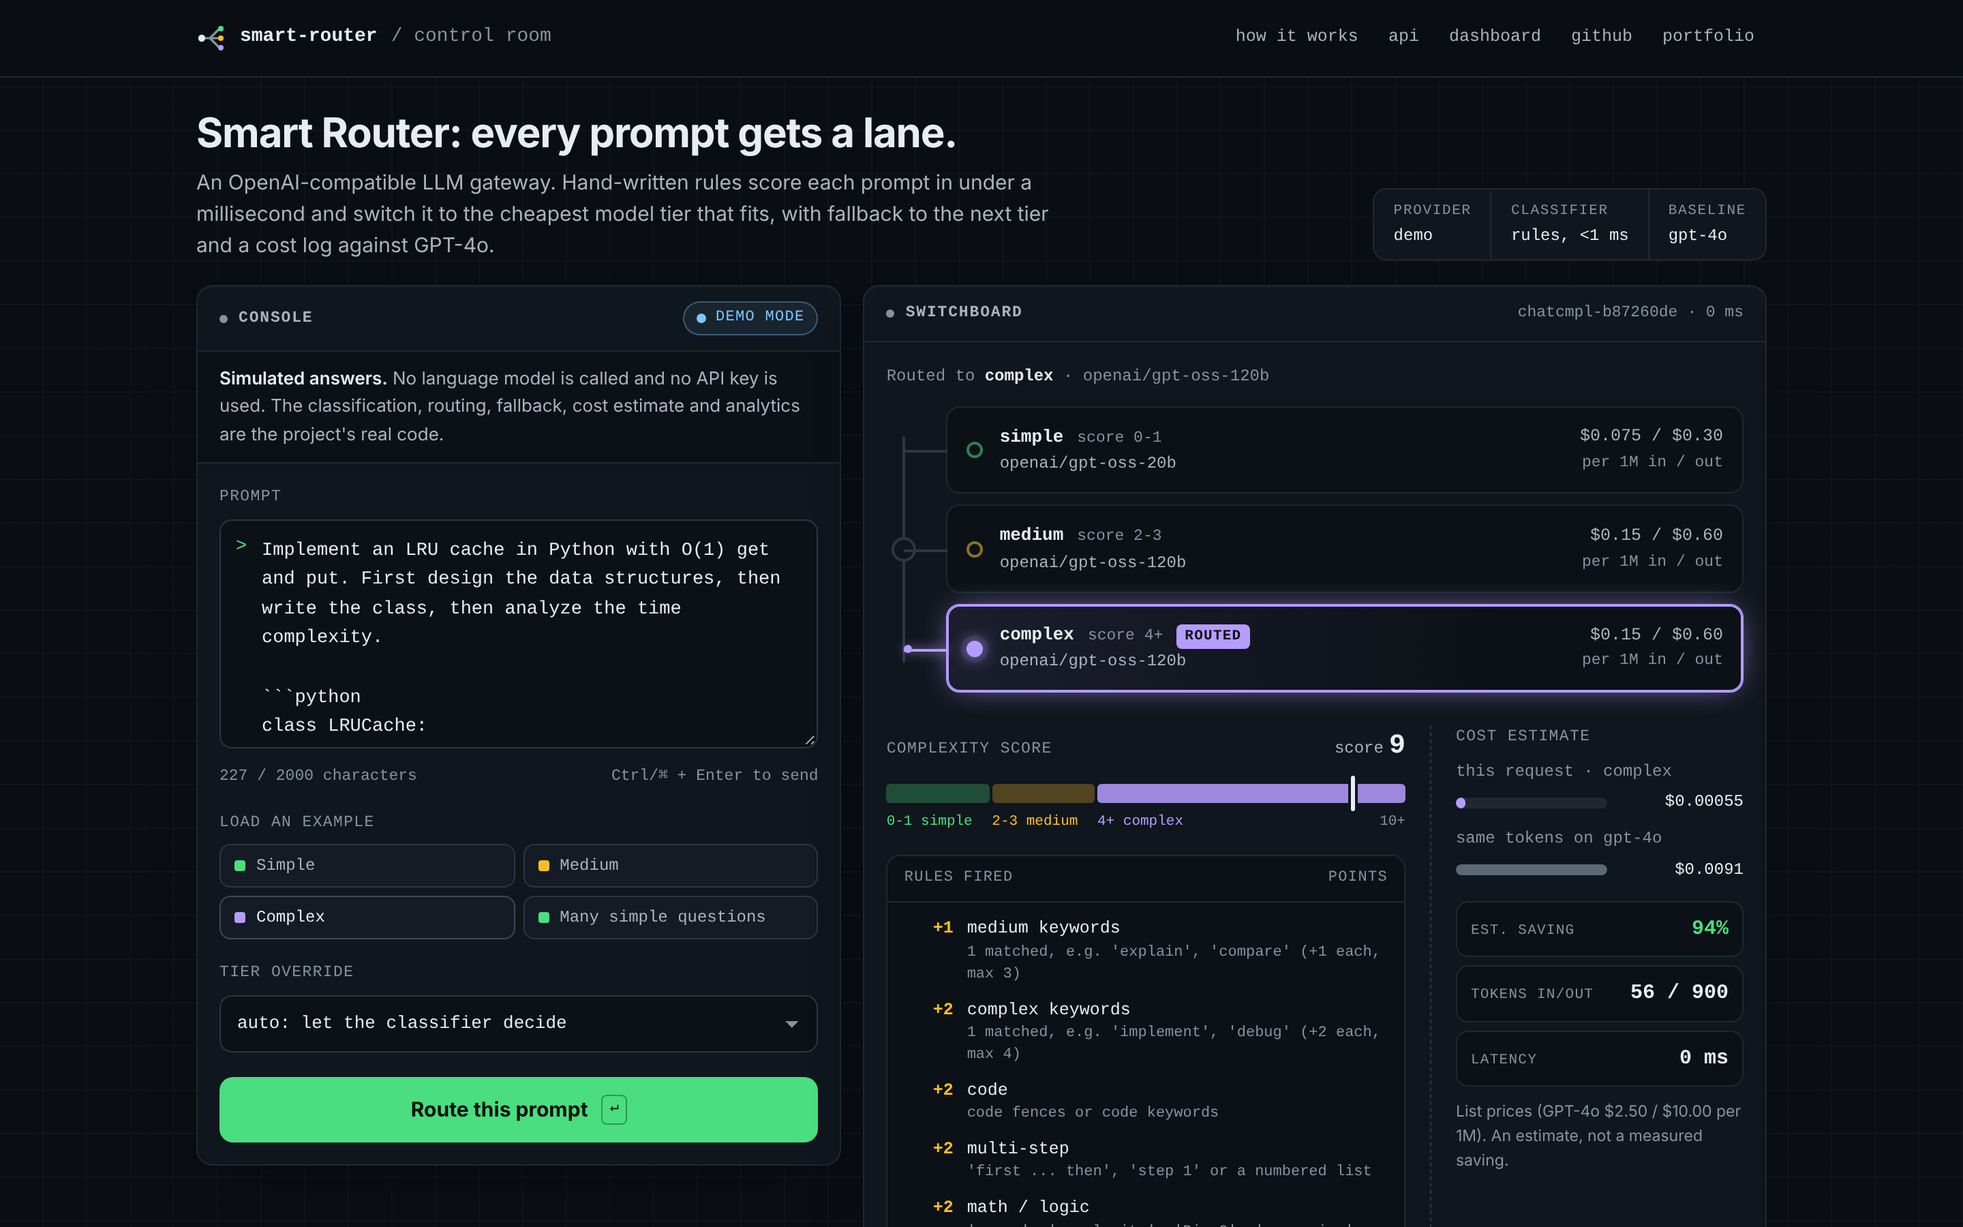
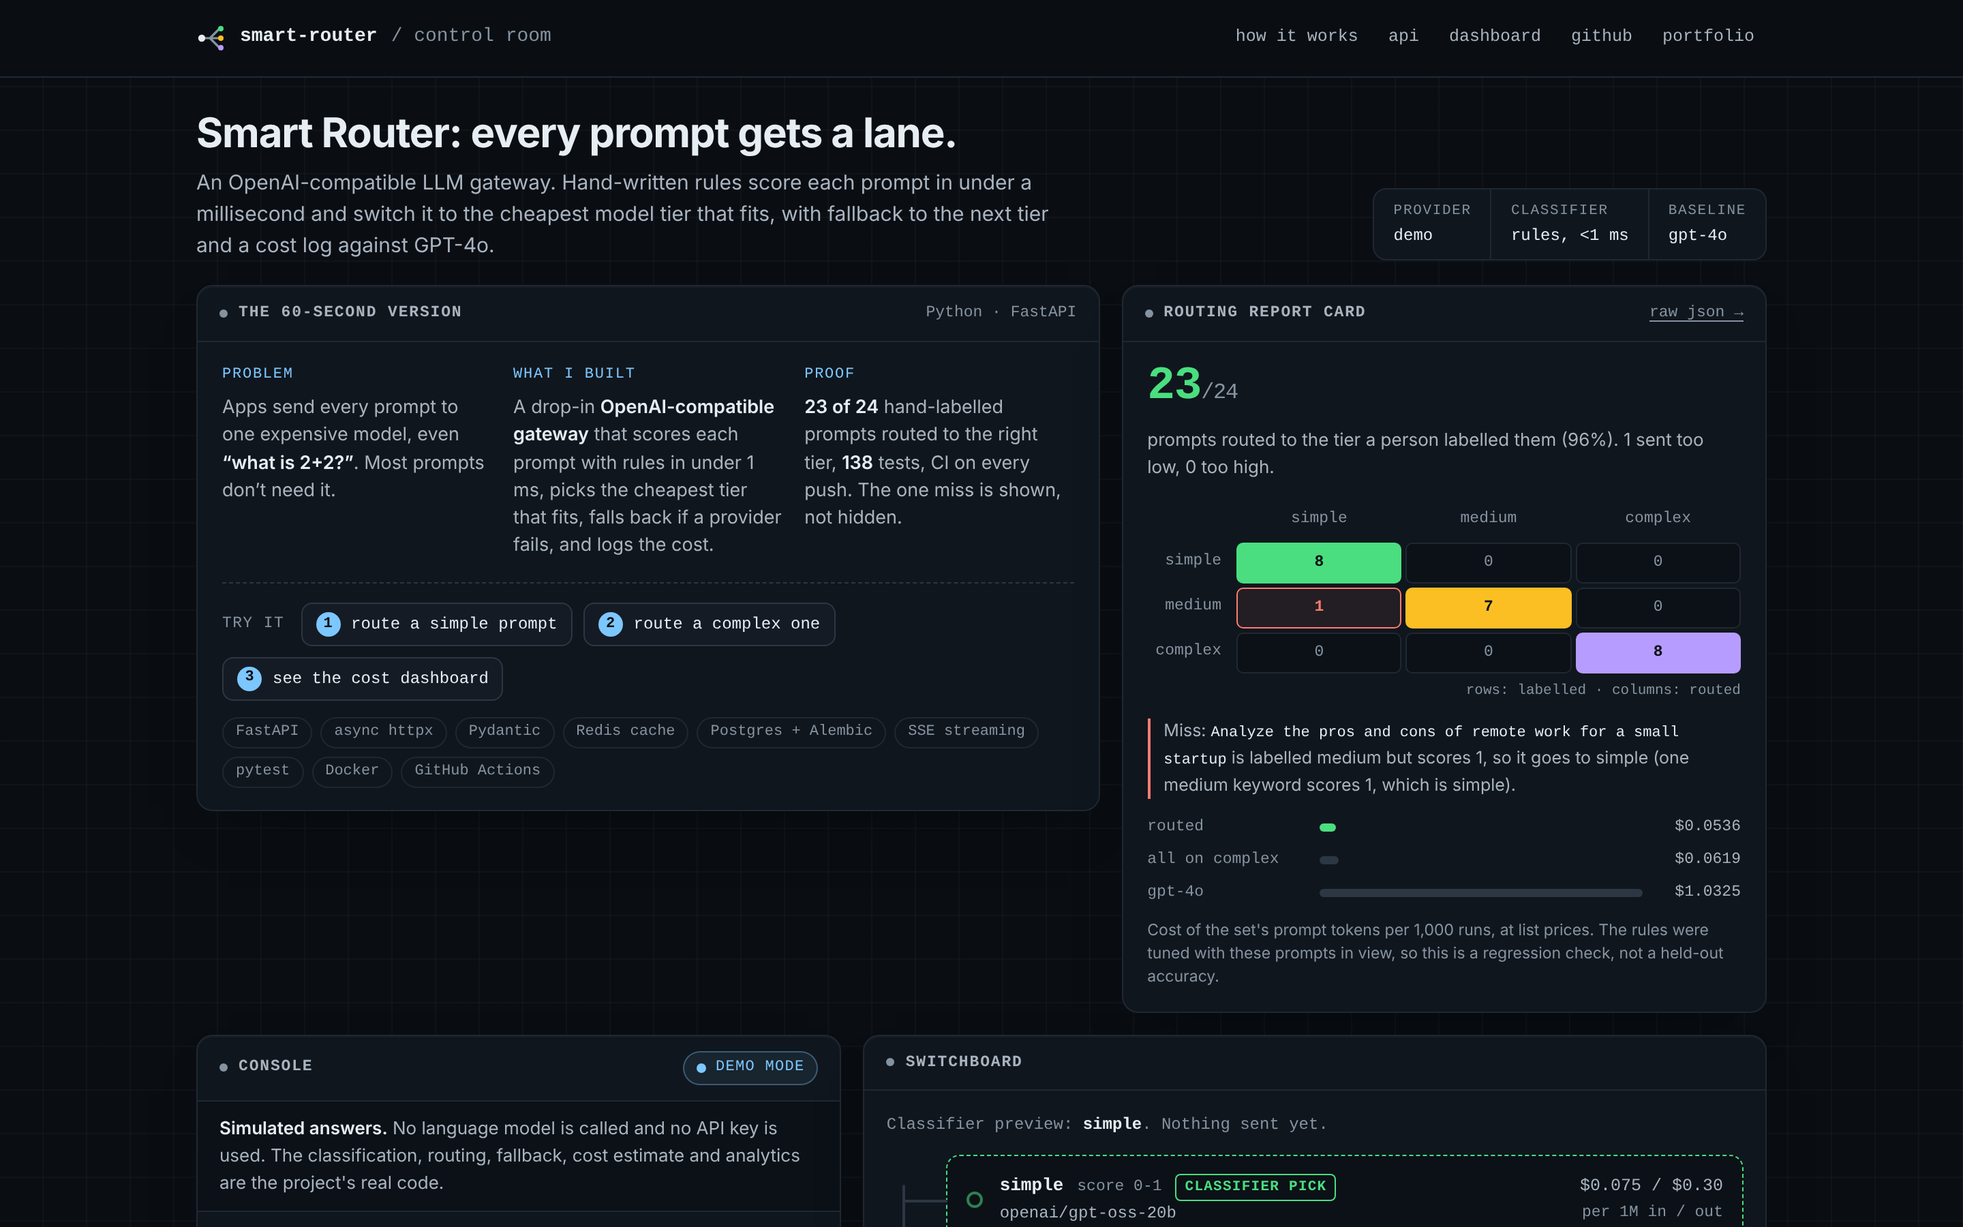
Open the demo page with a 60-second summary and a routing report card
Someone landing on the page saw a prompt box and had to guess what the
project is for and whether it works. The page now starts with the
problem, what was built and the proof, three try-it buttons (route a
simple prompt, route a complex one, open the cost dashboard), and a
report card drawn from GET /v1/route/eval: 23 of 24, the confusion
matrix, the one miss with its reason, and the cost bars.

README: an 'In 60 seconds' table, a Routing eval section, make eval in
the quick start, and 139 tests (was 132).

diff --git a/backend/app/static/demo.html b/backend/app/static/demo.html
@@ -240,6 +240,42 @@ footer .mono{font-size:12px}
   .count .hint{display:none}
   .zones b{display:none}
 }
+
+/* ── 60-second brief + routing report card ── */
+.brief{display:grid;grid-template-columns:minmax(0,7fr) minmax(0,5fr);gap:16px;margin-bottom:16px;align-items:start}
+.brief .pb{padding:16px 18px}
+.facts{display:grid;grid-template-columns:repeat(3,minmax(0,1fr));gap:16px}
+.facts dt{font-family:var(--mono);font-size:11px;letter-spacing:.08em;text-transform:uppercase;color:var(--info);margin-bottom:5px}
+.facts dd{font-size:13.5px;color:var(--ink-2);line-height:1.5}
+.facts dd b{color:var(--ink);font-weight:600}
+.tour{display:flex;flex-wrap:wrap;align-items:center;gap:8px;margin-top:16px;padding-top:14px;border-top:1px dashed var(--line-2)}
+.tour .lbl{margin:0 4px 0 0}
+.tour button,.tour a{display:inline-flex;align-items:center;gap:8px;font-family:var(--mono);font-size:12px;color:var(--ink);background:var(--panel-2);border:1px solid var(--line-2);padding:6px 10px;border-radius:8px;cursor:pointer;text-decoration:none}
+.tour button:hover,.tour a:hover{border-color:var(--info)}
+.tour b{display:inline-grid;place-items:center;width:18px;height:18px;border-radius:50%;background:var(--info);color:#0a0e13;font-size:11px}
+.stack{display:flex;flex-wrap:wrap;gap:6px;margin-top:12px}
+.stack span{font-family:var(--mono);font-size:11px;color:var(--ink-3);border:1px solid var(--line);border-radius:999px;padding:2px 9px}
+.card-top{display:flex;align-items:baseline;gap:12px;flex-wrap:wrap}
+.big{font-family:var(--mono);font-size:34px;font-weight:650;letter-spacing:-.02em;line-height:1;color:var(--simple)}
+.big small{font-size:16px;color:var(--ink-3);font-weight:500}
+.card-top p{font-size:13px;color:var(--ink-2)}
+.cm{display:grid;grid-template-columns:auto repeat(3,minmax(0,1fr));gap:3px;margin-top:14px;font-family:var(--mono);font-size:11.5px;font-variant-numeric:tabular-nums}
+.cm > span{padding:5px 6px;text-align:center;color:var(--ink-3)}
+.cm .rh{text-align:right;padding-right:8px}
+.cm .c{background:var(--well);border:1px solid var(--line);border-radius:5px;color:var(--ink-3)}
+.cm .c.hit{color:#0a0e13;font-weight:650}
+.cm .c.miss{color:var(--bad);border-color:var(--bad);background:var(--bad-bg);font-weight:650}
+.cmcap{font-family:var(--mono);font-size:10.5px;color:var(--ink-3);margin-top:5px;text-align:right}
+.missline{margin-top:12px;font-size:12.5px;color:var(--ink-2);border-left:2px solid var(--bad);padding-left:10px}
+.missline code{color:var(--ink)}
+.costs{margin-top:12px;display:grid;gap:6px;font-family:var(--mono);font-size:11.5px}
+.costs div{display:grid;grid-template-columns:118px minmax(0,1fr) 64px;gap:8px;align-items:center;color:var(--ink-3)}
+.costs i{display:block;height:6px;border-radius:3px;background:var(--line-2)}
+.costs .r i{background:var(--simple)}
+.costs em{font-style:normal;color:var(--ink-2);text-align:right}
+.fine{font-size:11.5px;color:var(--ink-3);margin-top:10px;line-height:1.5}
+@media (max-width:980px){.brief{grid-template-columns:1fr}}
+@media (max-width:640px){.facts{grid-template-columns:1fr;gap:12px}.costs div{grid-template-columns:96px minmax(0,1fr) 58px}}
 @media (prefers-reduced-motion:reduce){
   *,*::before,*::after{animation:none!important;transition:none!important;scroll-behavior:auto!important}
 }
@@ -275,6 +311,30 @@ footer .mono{font-size:12px}
     </dl>
   </section>
 
+
+  <section class="brief" aria-label="Project summary">
+    <div class="panel">
+      <div class="ph"><h2>The 60-second version</h2><span style="text-transform:none;letter-spacing:0">Python · FastAPI</span></div>
+      <div class="pb">
+        <dl class="facts">
+          <div><dt>Problem</dt><dd>Apps send every prompt to one expensive model, even <b>“what is 2+2?”</b>. Most prompts don’t need it.</dd></div>
+          <div><dt>What I built</dt><dd>A drop-in <b>OpenAI-compatible gateway</b> that scores each prompt with rules in under 1 ms, picks the cheapest tier that fits, falls back if a provider fails, and logs the cost.</dd></div>
+          <div><dt>Proof</dt><dd><b id="bf-acc">23 of 24</b> hand-labelled prompts routed to the right tier, <b>138</b> tests, CI on every push. The one miss is shown, not hidden.</dd></div>
+        </dl>
+        <div class="tour" role="group" aria-label="Try it">
+          <span class="lbl">Try it</span>
+          <button type="button" data-ex="0"><b>1</b>route a simple prompt</button>
+          <button type="button" data-ex="2"><b>2</b>route a complex one</button>
+          <a href="/dashboard"><b>3</b>see the cost dashboard</a>
+        </div>
+        <div class="stack" aria-label="Built with"><span>FastAPI</span><span>async httpx</span><span>Pydantic</span><span>Redis cache</span><span>Postgres + Alembic</span><span>SSE streaming</span><span>pytest</span><span>Docker</span><span>GitHub Actions</span></div>
+      </div>
+    </div>
+    <section class="panel" aria-labelledby="rc-h">
+      <div class="ph"><h2 id="rc-h">Routing report card</h2><a href="/v1/route/eval" style="text-transform:none;letter-spacing:0">raw json →</a></div>
+      <div class="pb" id="rc"><p class="muted">Running the classifier over the labelled prompts…</p></div>
+    </section>
+  </section>
   <div class="board">
     <form class="panel" id="form" aria-labelledby="console-h">
       <div class="ph">
@@ -645,6 +705,33 @@ print(r.headers["x-router-tier"], r.headers["x-router-model"])
     } catch (e) {}
   }
 
+
+  // ── routing report card (GET /v1/route/eval: the real classifier over the labelled prompts) ──
+  document.querySelectorAll(".tour button[data-ex]").forEach((b) => {
+    b.onclick = () => {
+      const [, , text] = EXAMPLES[+b.dataset.ex];
+      $("prompt").value = text; count(); send();
+      $("form").scrollIntoView({ behavior: reduced ? "auto" : "smooth", block: "start" });
+    };
+  });
+  fetch("/v1/route/eval").then(r => r.json()).then(ev => {
+    $("bf-acc").textContent = `${ev.correct} of ${ev.total}`;
+    const cells = TIERS.map(exp => `<span class="rh">${exp}</span>` + TIERS.map(got => {
+      const n = ev.confusion[exp][got];
+      const cls = exp === got ? "c hit" : n ? "c miss" : "c";
+      const st = exp === got && n ? ` style="background:${COLOR[got]};border-color:${COLOR[got]}"` : "";
+      return `<span class="${cls}"${st}>${n}</span>`;
+    }).join("")).join("");
+    const miss = ev.misses.map(m => `<p class="missline">Miss: <code>${esc(m.prompt)}</code> is labelled ${m.expected} but scores ${m.score}, so it goes to ${m.routed}${m.note ? ` (${esc(m.note)})` : ""}.</p>`).join("");
+    const c = ev.cost, max = c.baseline_usd_per_1k_runs || 1;
+    const bar = (cls, name, v) => `<div class="${cls}"><span>${name}</span><i style="width:${Math.max(2, v / max * 100)}%"></i><em>${usd(v)}</em></div>`;
+    $("rc").innerHTML =
+      `<div class="card-top"><span class="big">${ev.correct}<small>/${ev.total}</small></span><p>prompts routed to the tier a person labelled them (${Math.round(ev.accuracy * 100)}%). ${ev.routed_too_low} sent too low, ${ev.routed_too_high} too high.</p></div>` +
+      `<div class="cm" role="table" aria-label="Confusion matrix: labelled tier by row, routed tier by column"><span></span>${TIERS.map(t => `<span>${t}</span>`).join("")}${cells}</div>` +
+      `<p class="cmcap">rows: labelled · columns: routed</p>` + miss +
+      `<div class="costs" aria-label="Prompt cost of the 24 prompts, per 1,000 runs">${bar("r", "routed", c.routed_usd_per_1k_runs)}${bar("", "all on complex", c.all_complex_usd_per_1k_runs)}${bar("", c.baseline_model, c.baseline_usd_per_1k_runs)}</div>` +
+      `<p class="fine">Cost of the set's prompt tokens per 1,000 runs, at list prices. The rules were tuned with these prompts in view, so this is a regression check, not a held-out accuracy.</p>`;
+  }).catch(() => { $("rc").innerHTML = `<p class="muted">Could not load the report card.</p>`; });
   $("form").addEventListener("submit", send);
   preview();
   loadStats();

diff --git a/backend/tests/test_demo.py b/backend/tests/test_demo.py
@@ -193,6 +193,12 @@ class TestPages:
         dash = client.get("/dashboard")
         assert dash.status_code == 200 and "<title>Smart Router</title>" in dash.text
 
+    def test_playground_shows_the_summary_and_reads_the_eval(self, client):
+        home = client.get("/").text
+        assert "The 60-second version" in home and "Routing report card" in home
+        assert 'fetch("/v1/route/eval")' in home
+        assert client.get("/v1/route/eval").status_code == 200
+
 
 def test_demo_models_are_priced():
     cfg = get_settings()

diff --git a/README.md b/README.md
@@ -6,7 +6,7 @@
 
 > **An OpenAI-compatible LLM gateway that routes each prompt to one of three model tiers using hand-written rules, and estimates the cost of every request.**
 
-[![Demo page: a prompt console on the left; on the right a switchboard of three tier lanes with the routed lane lit, a score gauge against the tier thresholds, the rules that fired with their points, and the estimated cost against GPT-4o](docs/screenshot.png)](https://smart-router-nityashree.vercel.app)
+[![Demo page: a 60-second summary with three try-it buttons, and a routing report card showing 23 of 24 labelled prompts routed correctly, a confusion matrix, the one miss and a cost comparison; below, the prompt console and the tier switchboard](docs/screenshot.png)](https://smart-router-nityashree.vercel.app)
 
 ### Run it in 1 minute
 
@@ -16,12 +16,22 @@ Needs Python 3.12 (the pinned `asyncpg` does not build on 3.13) and `make`. No A
 git clone https://github.com/Nityaa08/smart-router && cd smart-router
 make demo    # creates .venv, installs, serves demo mode at http://localhost:8000
 make test    # the unit test suite (no database, Redis or LLM needed)
+make eval    # routing accuracy on 24 hand-labelled prompts, with a confusion matrix
 ```
 
 Without `make`: `cd backend && pip install -r requirements.txt && PROVIDER=demo DATABASE_URL=memory REDIS_URL=none uvicorn app.main:app --reload`.
 With Docker (Postgres + Redis + a real provider): `cp .env.example .env`, set a provider in `.env`, then `make dev` (or `docker compose up --build`). See [Quick Start](#quick-start).
 
 ---
+
+## In 60 seconds
+
+| | |
+|---|---|
+| **Problem** | Apps send every prompt to one expensive model, including "what is 2+2?". Most prompts don't need it. |
+| **What I built** | A drop-in, OpenAI-compatible gateway. Rules score each prompt in under a millisecond, the cheapest tier that fits answers, a failing provider falls back to the next tier, and every request is logged with its cost. |
+| **Proof** | 23 of 24 hand-labelled prompts reach the labelled tier ([routing eval](#routing-eval), served live at `/v1/route/eval` and shown on the demo page as a report card with a confusion matrix). 139 unit tests, CI on every push. |
+| **Engineering** | FastAPI, async httpx, Pydantic, Redis cache, Postgres with Alembic, SSE streaming, rate limiting per API key, Docker, GitHub Actions. |
 
 ## The Problem
 
@@ -109,7 +119,7 @@ curl -X POST http://localhost:8000/v1/route/explain \
 | **Playground and dashboard** | `/` is a playground that shows each routing decision; `/dashboard` shows routing distribution and estimated cost |
 | **Optional API key** | Set `ROUTER_API_KEY` to require `Authorization: Bearer <key>` on the chat and analytics endpoints |
 | **Rate limit** | `RATE_LIMIT` per client IP on `POST /v1/chat/completions` (HTTP 429 when exceeded) |
-| **132 unit tests** | Classifier, cost calculation, the chat endpoint (routing, fallback, streaming, cache, rate limit, auth) with fake providers, and the demo mode (demo provider, in-memory log, explain endpoint, guards) |
+| **139 unit tests** | Classifier, the routing eval, cost calculation, the chat endpoint (routing, fallback, streaming, cache, rate limit, auth) with fake providers, and the demo mode (demo provider, in-memory log, explain endpoint, guards) |
 
 ---
 
@@ -196,6 +206,28 @@ The score measures complexity, so simple keywords take points away. Until 2026-1
 
 ---
 
+## Routing eval
+
+`make eval` (or `GET /v1/route/eval`, which the demo page draws as a report card) runs the real classifier over the 24 hand-labelled prompts in [`backend/app/evals/labelled.py`](backend/app/evals/labelled.py), 8 per tier:
+
+```
+23/24 routed to the labelled tier (96%)
+labelled \ routed   simple   medium  complex
+           simple        8        0        0
+           medium        1        7        0
+          complex        0        0        8
+miss: medium -> simple (score 1): Analyze the pros and cons of remote work for a small startup
+cost per 1k runs of the set (prompt (input) tokens only, at list prices): $0.0162 routed vs $0.0207 all on the complex tier vs $1.0325 on gpt-4o
+```
+
+How to read it:
+
+- **The one miss goes down a tier**, which is the costly kind of mistake (a weaker model answers), so the report counts "too low" and "too high" separately.
+- **Routing itself saves about a fifth** of the prompt cost here compared with sending everything to the complex tier ($0.0162 vs $0.0207 with the Groq defaults). Most of the gap to GPT-4o comes from the cheaper open models, not from routing.
+- **This is not a held-out score.** The rules were adjusted with these prompts in view (10 of 24 matched before the scoring change on 2026-11-14), so it is a regression check that keeps obvious cases right. A real evaluation needs prompts the rules were not tuned on.
+
+The test suite reads the same list, so a rule change that breaks a labelled case fails CI.
+
 ## API Reference
 
 ### `POST /v1/chat/completions`
@@ -262,7 +294,7 @@ make test
 make smoke
 ```
 
-The unit test suite has 132 tests (64 classifier, 22 config/cost/default-model, 31 API, 15 demo mode; one classifier test is a known miss marked as an expected failure) with zero external dependencies: the API tests replace the LLM providers, Redis and the Postgres logger with in-memory fakes. Line coverage on 2026-11-02: 100% of `classifier/heuristics.py`, `config.py` and `security.py`, 87% of `api/chat.py`, 81% of `router/engine.py`, 71% of the app overall. The provider HTTP clients and `/analytics` SQL are not unit-tested; the fake-model run below covers them end to end.
+The unit test suite has 139 tests (64 classifier, 22 config/cost/default-model, 31 API, 16 demo mode, 6 routing eval; one classifier test is a known miss marked as an expected failure) with zero external dependencies: the API tests replace the LLM providers, Redis and the Postgres logger with in-memory fakes. Line coverage on 2026-11-02: 100% of `classifier/heuristics.py`, `config.py` and `security.py`, 87% of `api/chat.py`, 81% of `router/engine.py`, 71% of the app overall. The provider HTTP clients and `/analytics` SQL are not unit-tested; the fake-model run below covers them end to end.
 
 `make smoke` prints the HTTP status and the `x-router-tier` / `x-router-model` headers. If you set `ROUTER_API_KEY`, run `make smoke ROUTER_API_KEY=your-key`.
 
@@ -330,7 +362,7 @@ On 2026-11-02 streaming and the rate limit were checked against the same fake se
 ## Known Limitations (checked 2026-11-14)
 
 - **Savings are an estimate, not a measurement.** `cost_saved` prices the tokens the chosen model used at GPT-4o list prices (from `config.py`) and subtracts the chosen model's price. Answer quality is not compared, and there is no evaluation set yet. The small-model prices for local Ollama models are assumptions.
-- **The classifier is unvalidated.** It uses hand-written keyword rules, checked only against 24 hand-labelled prompts (23 match), not a real evaluation set. Known misses: a request with a single medium keyword ("Analyze the pros and cons of remote work") scores 1 and goes to `simple`, and a simple keyword cancels a harder one ("What is a closure? Implement one in JavaScript." stays `simple`). Keywords are matched anywhere in the text, with no sense of meaning.
+- **The classifier is unvalidated.** It uses hand-written keyword rules, checked only against 24 hand-labelled prompts (23 match, see [Routing eval](#routing-eval)) that it was tuned on, not a held-out evaluation set. Known misses: a request with a single medium keyword ("Analyze the pros and cons of remote work") scores 1 and goes to `simple`, and a simple keyword cancels a harder one ("What is a closure? Implement one in JavaScript." stays `simple`). Keywords are matched anywhere in the text, with no sense of meaning.
 - **Streaming is simpler than the non-streaming path.** Streamed requests fall back to the next tier only before their first chunk (a provider that fails mid-stream reports the error in the stream). They are not cached. They are logged to `/analytics`, but the providers' streams carry no token usage, so their tokens and cost are estimated at about 4 characters per token from the prompt and the streamed text, and their latency is the time until the stream ended. A stream that stops early (provider error or client disconnect) is logged with status `stream_incomplete` and the text sent so far. In demo mode a streamed answer is therefore priced lower than the same answer non-streamed, which uses a typical answer length per tier.
 - **Authentication is one optional shared key.** With `ROUTER_API_KEY` unset (the default, for local dev) any client that can reach the server can send requests. There are no per-user keys or quotas. `/health` and the dashboard page stay public. CORS defaults to `*`.
 - **Rate-limit counts are only shared when Redis is used.** Limits are per API key (or per IP when no key is sent). With `RATE_LIMIT_STORAGE=memory://`, each process counts separately. Docker Compose points it at the bundled Redis, so all workers share one count; if Redis goes down, counting falls back to each process.
@@ -390,16 +422,18 @@ smart-router/
     ├── alembic.ini
     ├── migrations/           # Alembic schema migrations
     ├── tests/
-    │   ├── test_classifier.py  # 64 classifier tests, incl. 24 hand-labelled prompts
+    │   ├── test_classifier.py  # 64 classifier tests, incl. the 24 hand-labelled prompts
     │   ├── test_config.py      # 22 config/cost/default-model tests
     │   ├── test_api.py         # 31 chat-endpoint tests with fake providers
-    │   └── test_demo.py        # 15 demo-mode tests
+    │   ├── test_demo.py        # 16 demo-mode tests
+    │   └── test_eval.py        # 6 routing-eval tests
     └── app/
         ├── main.py           # FastAPI app (CORS, rate-limit handler, static files)
         ├── security.py       # Rate limiter + optional API key check
         ├── config.py         # Settings + DATABASE_URL scheme normalizer
         ├── database.py       # Async SQLAlchemy
         ├── classifier/       # Zero-cost heuristic scorer
+        ├── evals/            # Hand-labelled prompts + routing eval (make eval, /v1/route/eval)
         ├── providers/        # Ollama · Groq · OpenRouter · Generic OpenAI-compat · Demo
         ├── router/           # classify → route → log (Postgres, or memlog.py in memory)
         ├── api/              # /v1/chat/completions · /v1/route/explain · /analytics · /health
